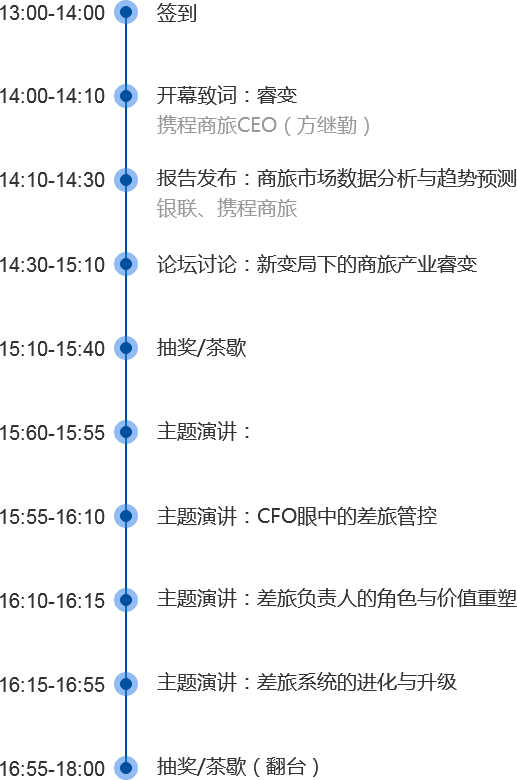
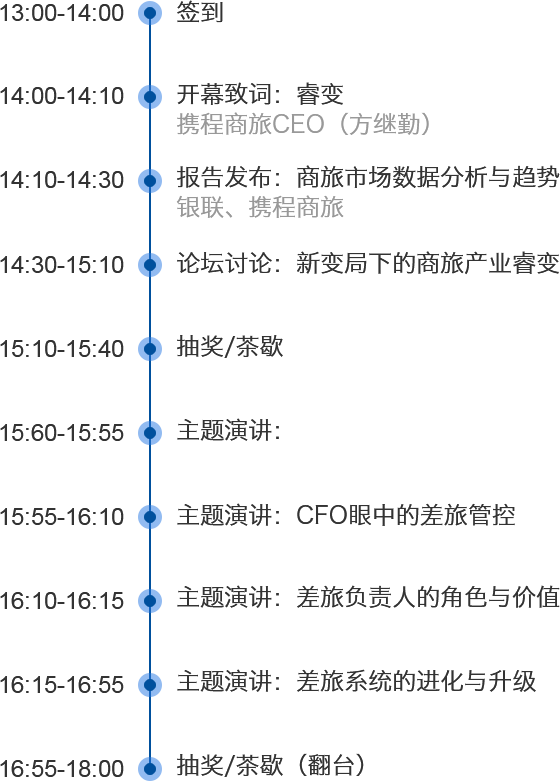
最终版本

Changed region(s): [[0.0, 0.0, 1.0, 1.0]]

diff --git a/demo/fh/js/tz.js b/demo/fh/js/tz.js
@@ -24,26 +24,67 @@ $(function () {
             $(".nav").removeClass('nav-fixed');
         }
 
-//        var tt = $(window).height() - 36; 
-//        var num = 0;
-//        for (var n = 0; n < 6; n++) {
-//            if (top >= n * tt && top <= (n + 1) * tt) {
-//                num = n;
-//
-//            }
-//            $('.nav li a').removeClass("selected").eq(num).addClass("selected");
-//        }
+        var f1, f2, f3, f4, f5, f6, f7, bck;
+        var fixTop = $('.nav a');
+        fl = $('#info').offset().top;
 
+        f2 = $('#schedule').offset().top;
+
+        f3 = $('#guest').offset().top;
+
+        f4 = $('#cooperation').offset().top;
+
+        f5 = $('#map').offset().top;
+
+        f6 = $('#review').offset().top;
+
+        f7 = $('#gift').offset().top;
+
+        if (top >= fl) {
+
+            fixTop.eq(0).addClass("selected").parents().siblings().find("a").removeClass("selected");
+
+        }
+
+        if (top >= f2 - 100) {
+
+            fixTop.eq(1).addClass("selected").parents().siblings().find("a").removeClass("selected");
+
+        }
+
+        if (top >= f3 - 100) {
+
+            fixTop.eq(2).addClass("selected").parents().siblings().find("a").removeClass("selected");
+
+        }
+
+        if (top >= f4 - 100) {
+
+            fixTop.eq(3).addClass("selected").parents().siblings().find("a").removeClass("selected");
+
+        }
+
+        if (top >= f5 - 100) {
+
+            fixTop.eq(4).addClass("selected").parents().siblings().find("a").removeClass("selected");
+
+        }
+
+        if (top >= f6 - 100) {
+
+            fixTop.eq(5).addClass("selected").parents().siblings().find("a").removeClass("selected");
+
+        }
     });
 
     $(".footer-nav").on("click", function () {
         $(".nav a").removeClass('selected');
         $(".nav li:nth-child(1)>a").addClass('selected');
-    })
+    });
     $(".footer-nav1").on("click", function () {
         $(".nav a").removeClass('selected');
         $(".nav li:nth-child(3)>a").addClass('selected');
-    })
+    });
     $(".footer-nav2").on("click", function () {
             $(".nav a").removeClass('selected');
             $(".nav li:nth-child(4)>a").addClass('selected');
@@ -67,15 +108,15 @@ $(function () {
     $('.tan-box').on("click", function () {
             $('#overlay').show();
             $('.yilongCeo').show();
-//            $('body').addClass("fix-scroll");
-//            document.documentElement.style.overflow = 'hidden';
-//            document.body.style.overflow = 'hidden'; //手机版
+            //            $('body').addClass("fix-scroll");
+            //            document.documentElement.style.overflow = 'hidden';
+            //            document.body.style.overflow = 'hidden'; //手机版
         })
         //close 
     $('.close').on('click', function () {
         $('.guest-box').hide();
         $('#overlay').hide();
-//        document.documentElement.style.overflow = 'scroll';
-//        document.body.style.overflow = 'scroll'; //手机版
+        //        document.documentElement.style.overflow = 'scroll';
+        //        document.body.style.overflow = 'scroll'; //手机版
     })
 })

diff --git a/demo/fh/css/main.css b/demo/fh/css/main.css
@@ -601,7 +601,9 @@ img {
 .guest-box .guest-word {
     margin-top: 40px;
 }
-
+.schedule .phone-order{
+    display: none;
+}
 /* media  */
 
 @media screen and (max-width:800px) {
@@ -609,11 +611,14 @@ img {
     html {
         width: 100%;
     }
+    .title-wrap{
+        padding-top: 40px;
+    }
     .header .logo {
         display: none;
     }
     .header .nav {
-        height: 60px;
+        height: 40px;
         margin-top: 0;
         background: #32322b;
         opacity: .7;
@@ -630,6 +635,8 @@ img {
     .header ul > li {
         width: auto;
         padding-left: 3%;
+        height: 40px;
+        line-height: 40px;
     }
     .header ul a:hover {
         background: none;
@@ -776,11 +783,11 @@ img {
     .guest .specilaIntro {
         width: auto;
     }
-    .schedule img {
-/*
-        height: 390px;
-        width: auto;
-*/
+    .schedule .pc-order{
+        display: none;
+    }
+    .schedule .phone-order{
+        display: block;
     }
     .schedule .schedule-time {
         padding: 30px 0;
@@ -848,6 +855,12 @@ img {
     }
     .cooperation .ad img {
 /*        width: 75px;*/
+    }
+    .map .address-info {
+        height: 90px;
+    }
+    .map .wrap-info { 
+        padding: 1% 6%;
     }
 }
 @media screen and (min-width:768px) and (max-width:1024px){

diff --git a/demo/fh/index.html b/demo/fh/index.html
@@ -56,7 +56,8 @@
             <div class="title-wrap">
                 <h1 class="schedule-time"></h1>
             </div>
-            <img src="./images/order.png" height="780" width="517" alt="会议安排">
+            <img src="./images/order.png" alt="会议安排" class="pc-order">
+            <img src="./images/oerder-m.png" alt="会议安排" class="phone-order">
         </div>
     </div>
     <div class="guest" id="guest">
